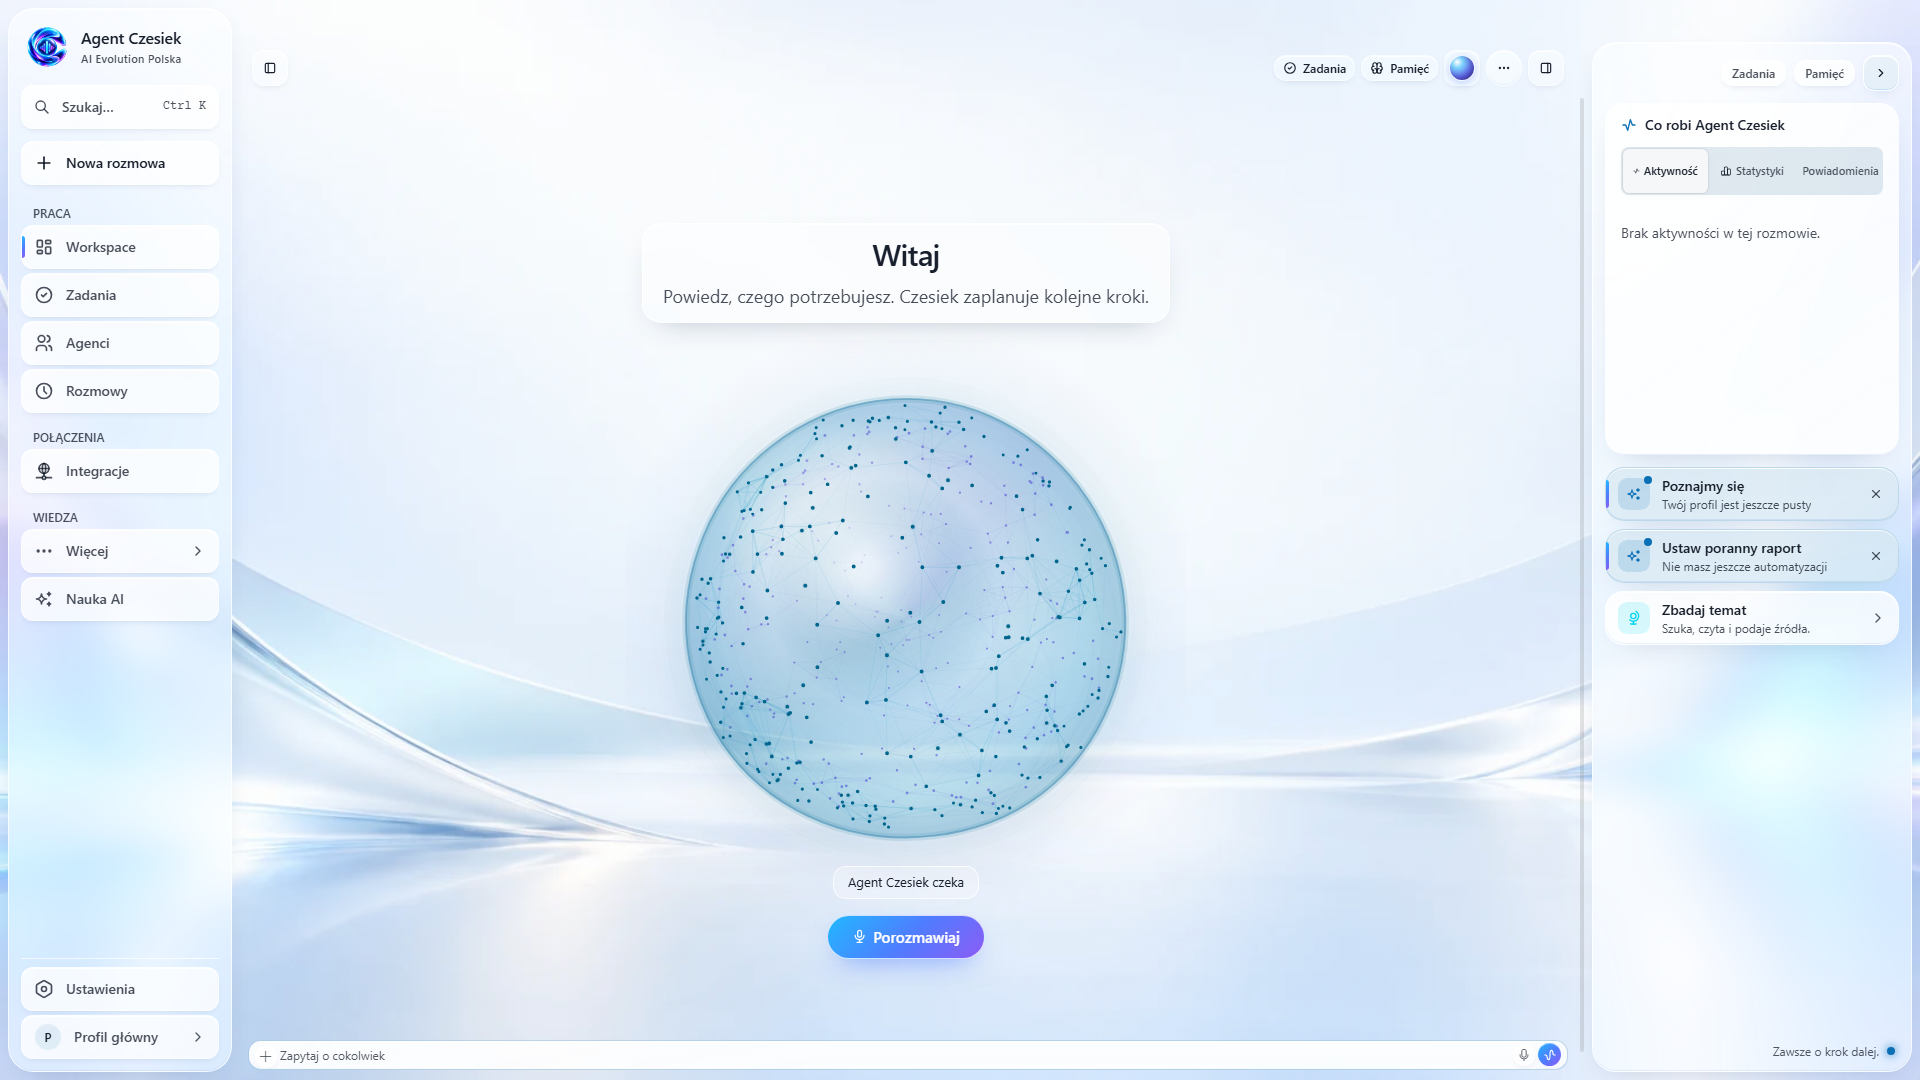
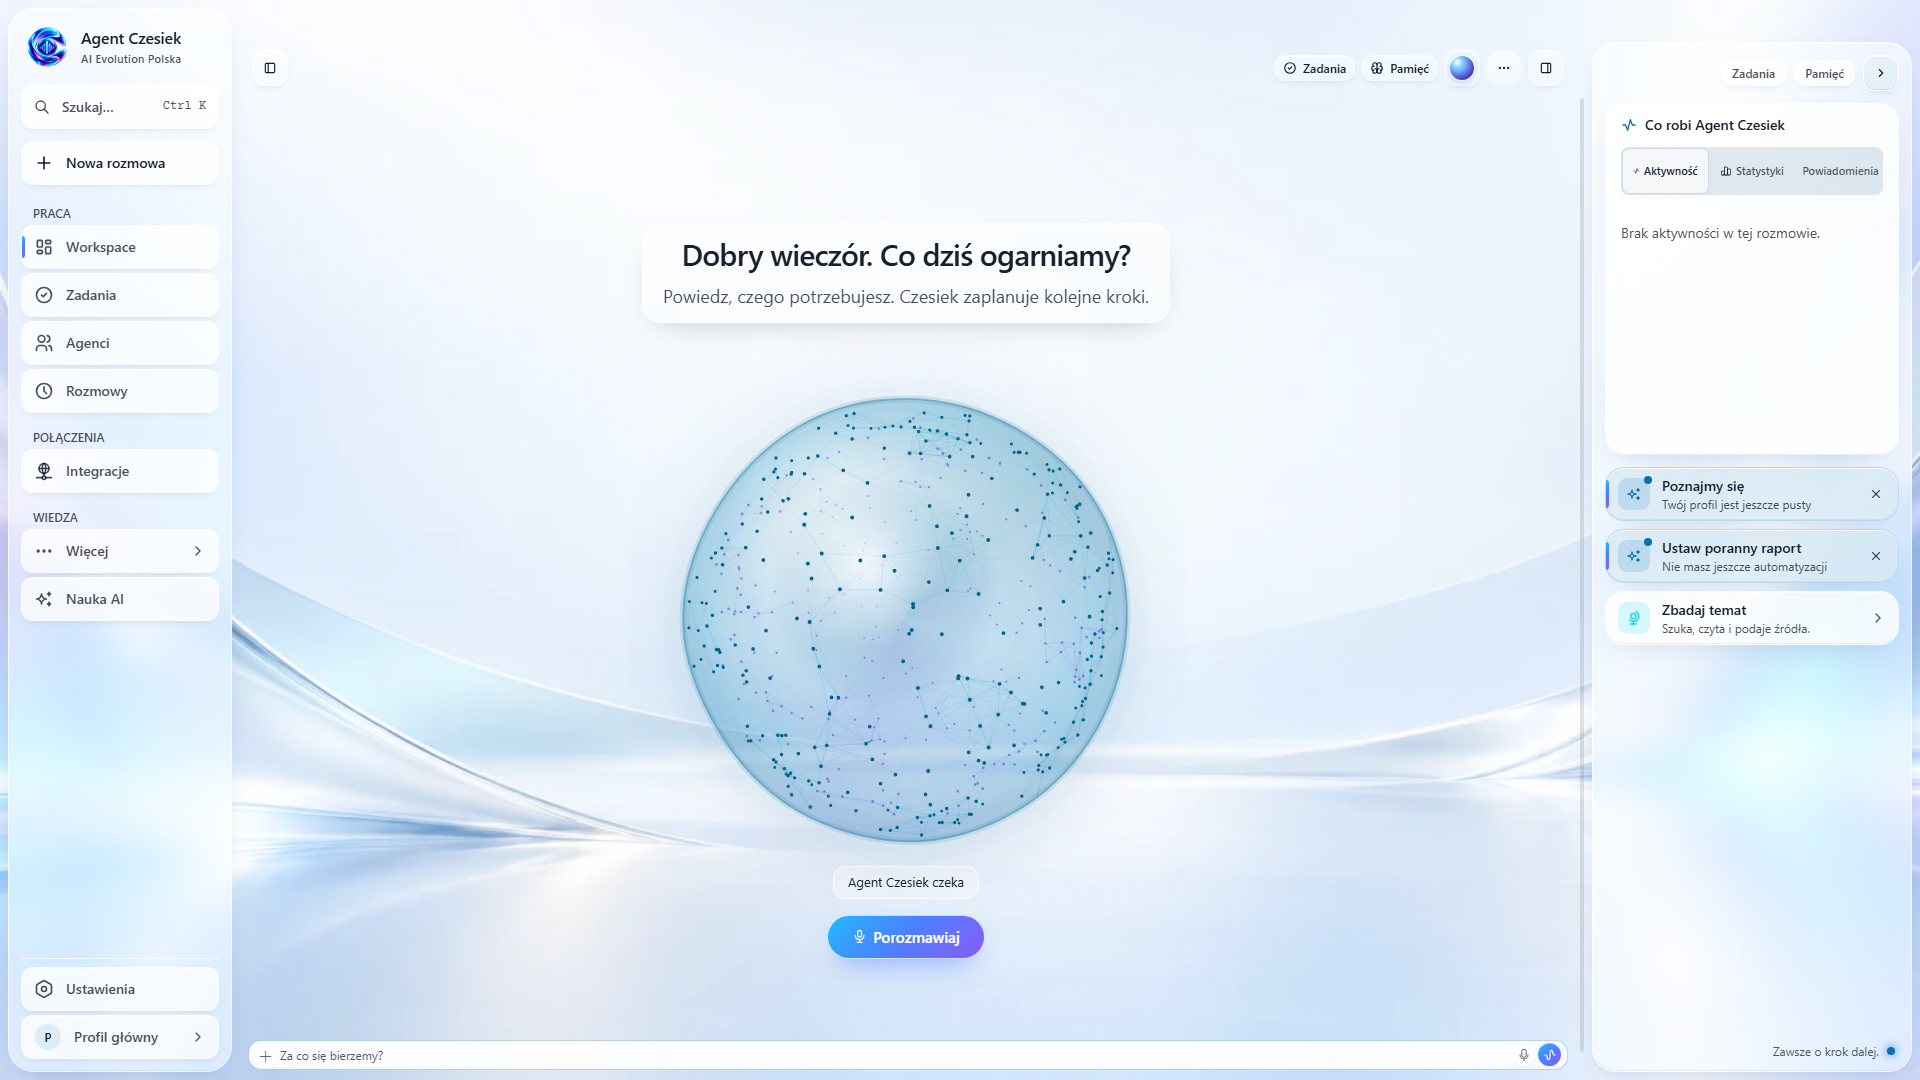
fix(desktop): keep selected glass options visibly highlighted

diff --git a/apps/desktop/src/app/jarvis/liquid-glass.css b/apps/desktop/src/app/jarvis/liquid-glass.css
@@ -123,6 +123,14 @@
   border-color: color-mix(in srgb, var(--ui-accent) 25%, var(--glass-border));
 }
 
+:root[data-czesiek-material='liquid'] [data-jarvis-shell] button[role='radio'][aria-checked='true'] {
+  border-color: color-mix(in srgb, var(--ui-accent) 55%, var(--glass-border));
+  background-color: color-mix(in srgb, var(--ui-accent) 14%, var(--liquid-control));
+  box-shadow:
+    inset 0 1px 0 var(--glass-highlight),
+    inset 0 0 0 1px color-mix(in srgb, var(--ui-accent) 18%, transparent);
+}
+
 :root[data-czesiek-material='liquid'] [data-jarvis-shell] [data-slot='button'][data-variant='default'] {
   border: 1px solid rgb(255 255 255 / 0.42);
   border-radius: 12px;
